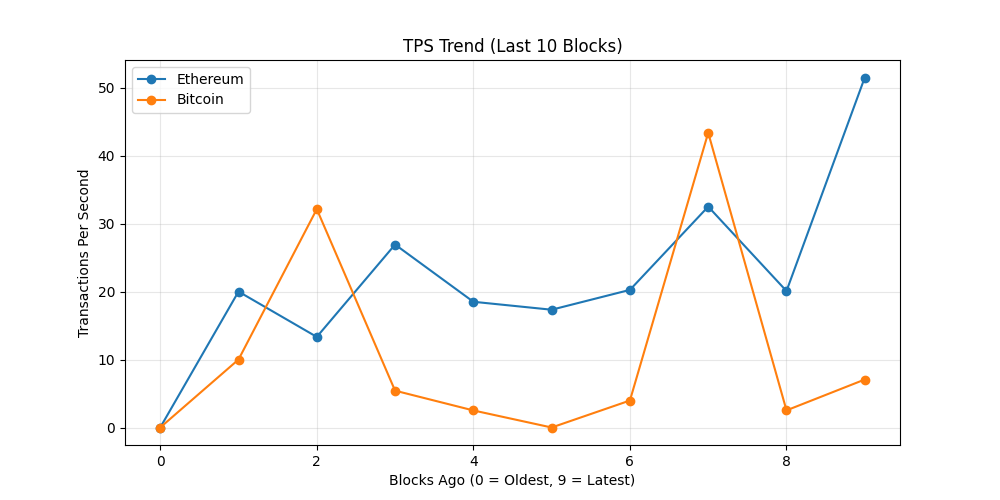
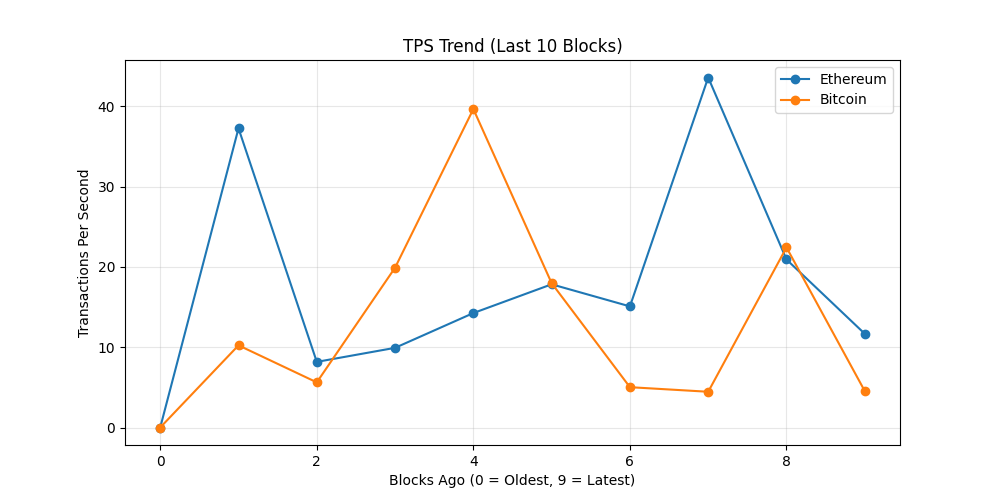
chore: update on-chain dashboard

diff --git a/README.md b/README.md
@@ -19,7 +19,7 @@ The README itself acts as the dashboard and is regenerated automatically on a 6 
 demonstrating a production-style, infrastructure-focused observability workflow rather
 than a traditional UI-driven approach.
 
-_Last updated: 2026-09-18 11:11 UTC_
+_Last updated: 2026-09-18 16:22 UTC_
 
 ## API Usage (GetBlock.io)
 - Calls used: **24**
@@ -27,8 +27,8 @@ _Last updated: 2026-09-18 11:11 UTC_
 ## Network Metrics
 | Chain | Block Height | TX Count | TPS (10 blk avg) | Block Util | Avg Fee |
 |------|-------------|----------|------------------|------------|---------|
-| Ethereum | 26004003 | 618 | 51.5 | 77.37% | 0.3 Gwei |
-| Bitcoin | 967545 | 3129 | 7.06 | 99.89% | N/A |
+| Ethereum | 26005551 | 140 | 11.67 | 25.31% | 0.6 Gwei |
+| Bitcoin | 967577 | 3901 | 4.54 | 99.88% | N/A |
 
 ## Visuals
 ### Transactions Trend
@@ -43,11 +43,11 @@ _Last updated: 2026-09-18 11:11 UTC_
 ## Whale Alerts (latest block)
 - Transaction hashes are truncated for readability.
 - Full hashes are available in `dashboards/metrics.json`
-- Bitcoin | 1467.88 BTC | `58b2245daa27…`
-- Bitcoin | 389.54 BTC | `12ec06448ddb…`
-- Bitcoin | 123.67 BTC | `12bc84dcb79a…`
-- Bitcoin | 943.85 BTC | `ceb0d721aaff…`
-- Bitcoin | 2466.8 BTC | `a61c119bbeb7…`
+- Bitcoin | 20391.51 BTC | `3f1d0c112f89…`
+- Bitcoin | 521.24 BTC | `260dd9c6c327…`
+- Bitcoin | 1812.71 BTC | `f3bc35b3ef3e…`
+- Bitcoin | 2376.66 BTC | `2a5bccb395bd…`
+- Bitcoin | 178.0 BTC | `5f793508ca31…`
 
 ## Run locally
 
